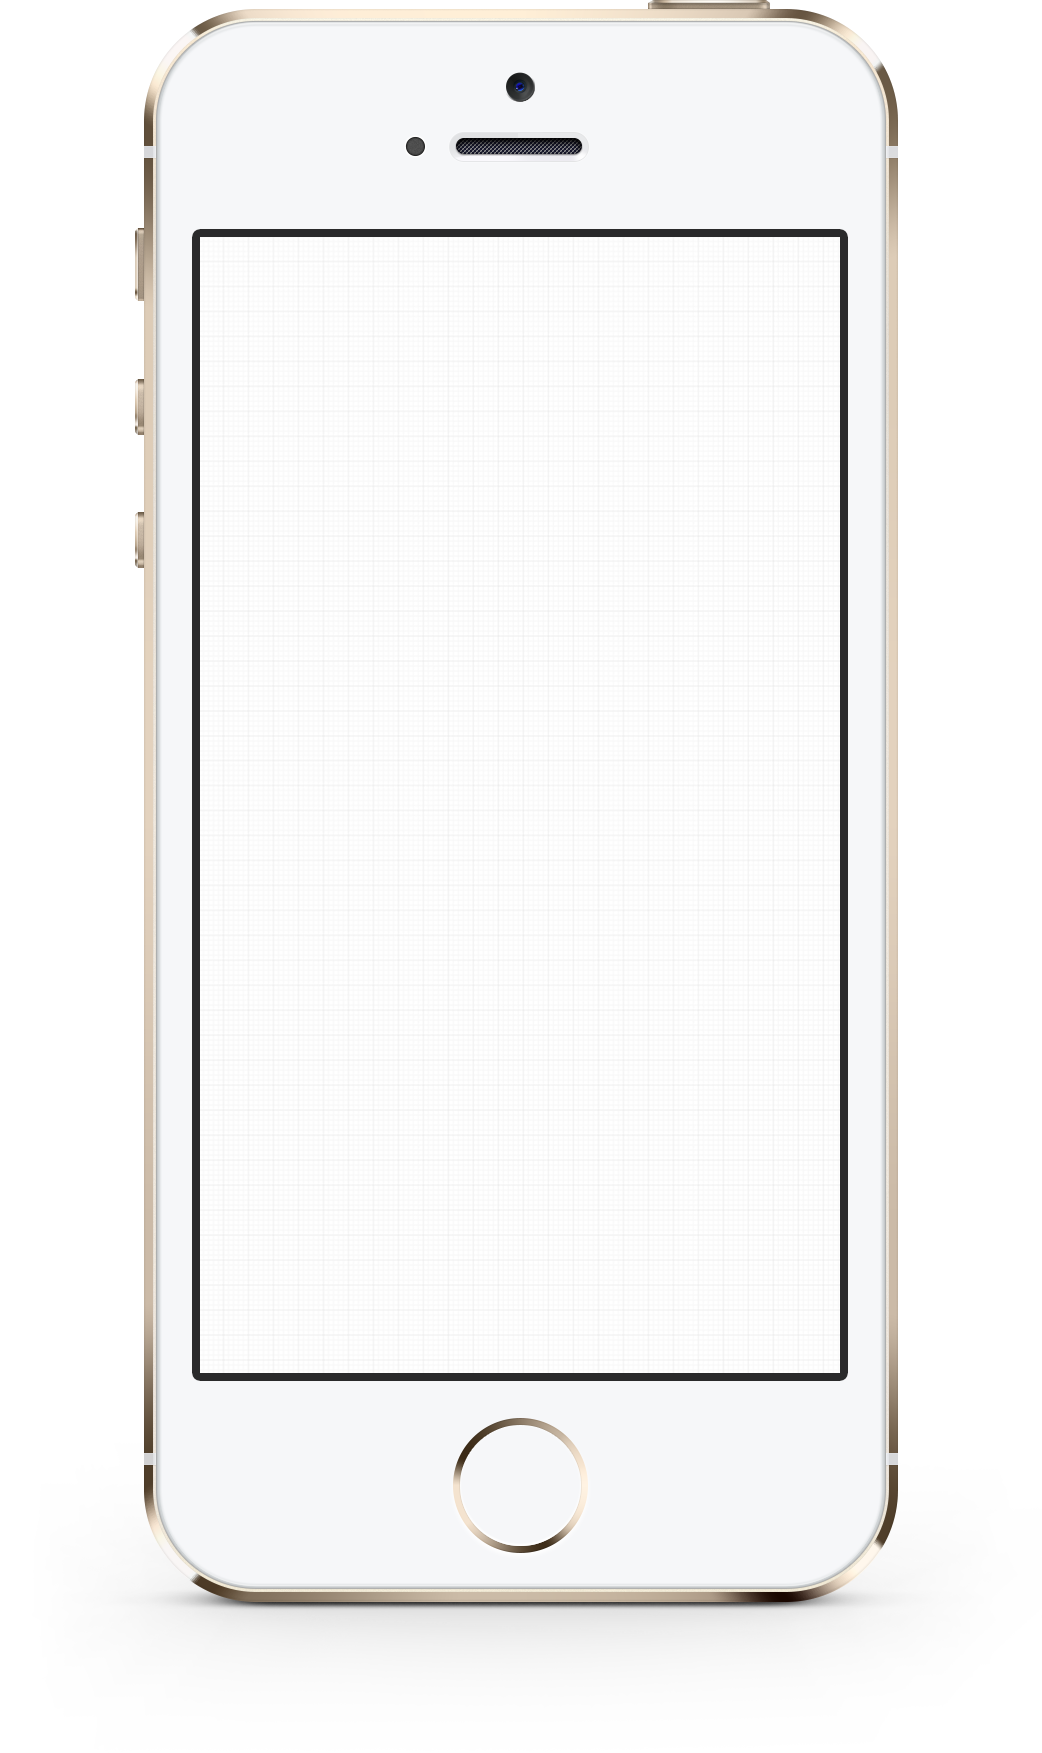
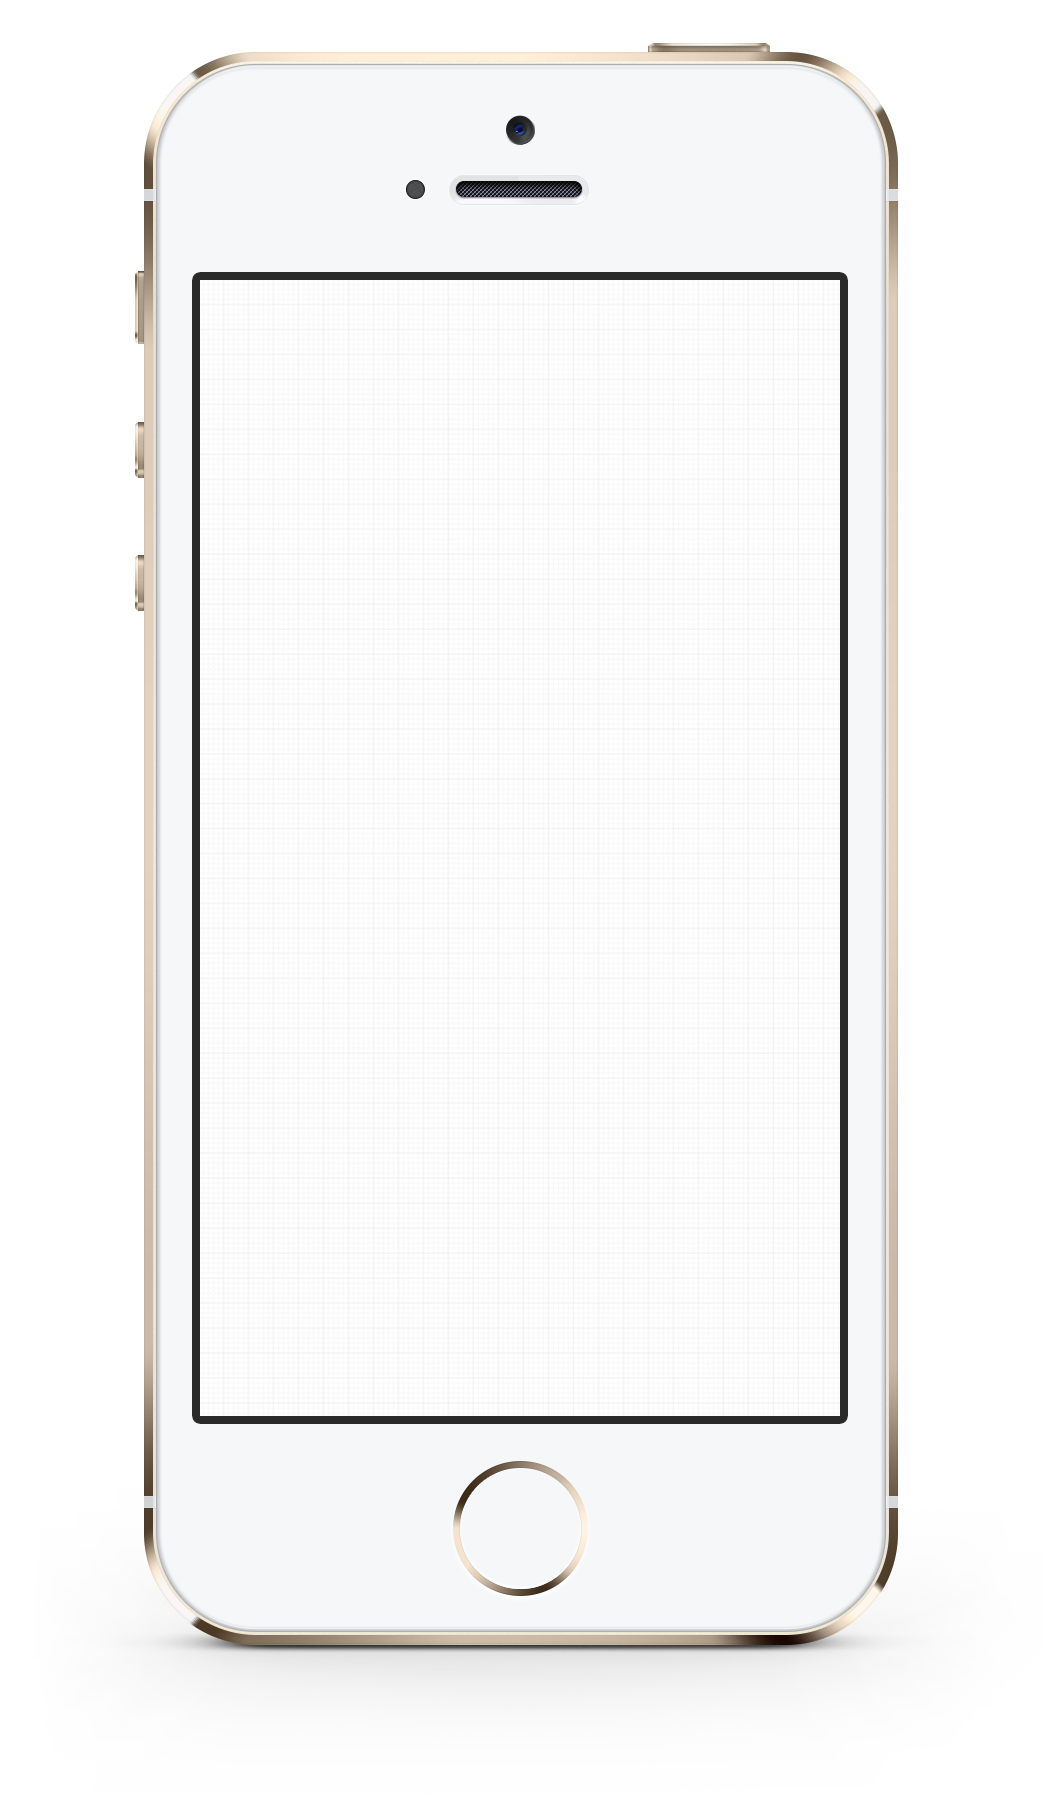
WA样式：手机背景位置微调

diff --git a/app/styles/main.css b/app/styles/main.css
@@ -50,7 +50,7 @@ i { font-style: normal; }
 
 /* Stage ( layout - center stage ) */
 .scene { position: absolute; left: 50%; top: 50%; -webkit-transform: translate(-50%, -50%); transform: translate(-50%, -50%); }
-.i5 .scene { width: 320px; height: 568px; margin-top: -11px; }
+.i5 .scene { width: 320px; height: 568px; }
 .s4 .scene { width: 400px; height: 640px; margin-top: 23px; }
 .scene-bg { width: 100%; height: 100%; position: absolute; z-index: 0; pointer-events: none; }
 .hotspot { background-color: rgba(255, 135, 124, 0.5); border: 1px solid #b0b0b0; position: absolute; box-sizing: border-box; }
